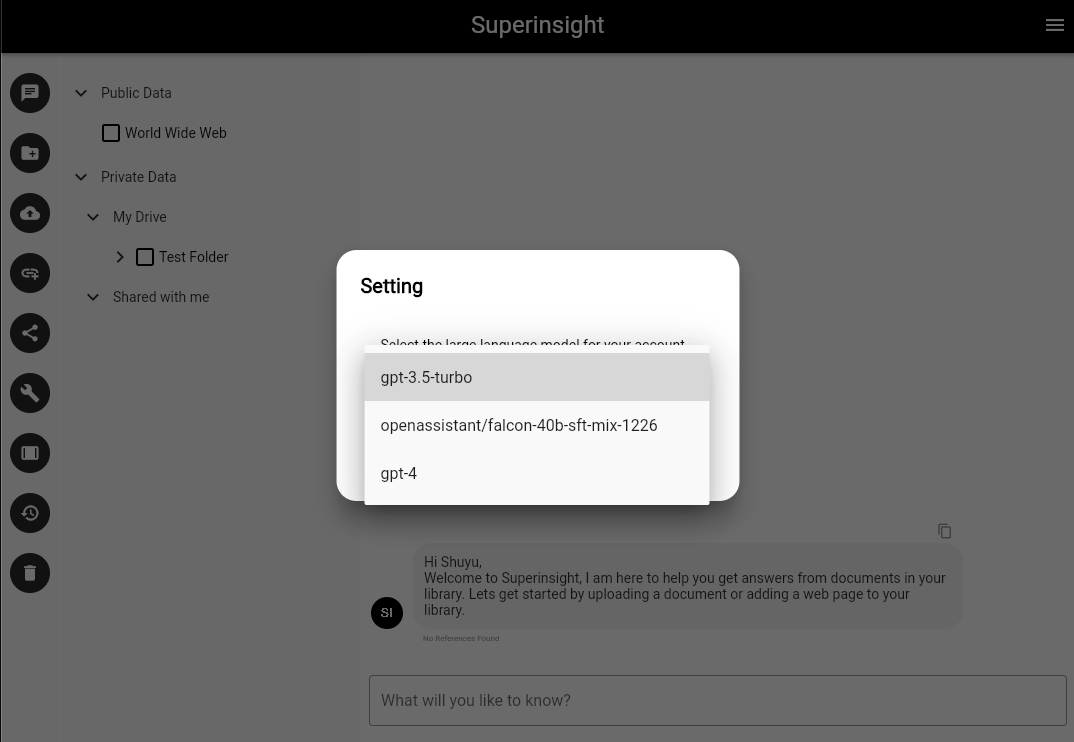
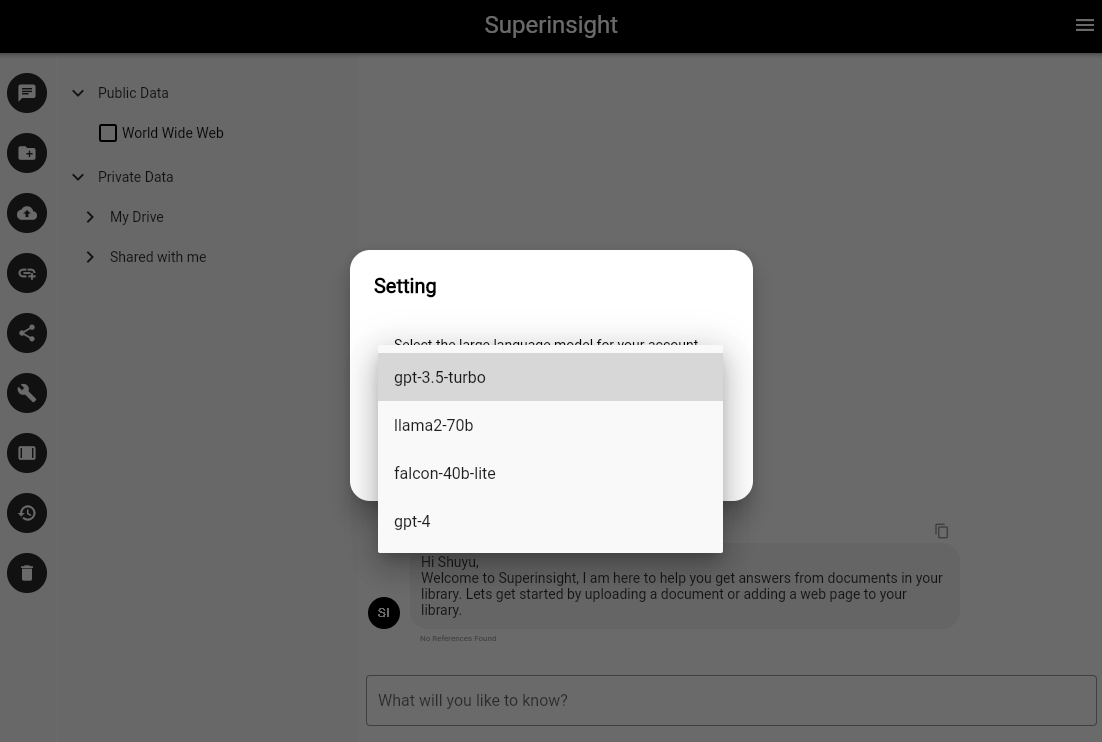
init commit

diff --git a/docs/guide/privacy-policy.md b/docs/guide/privacy-policy.md
@@ -1,0 +1,77 @@
+# Superinsight Privacy Policy
+
+Superinsight is committed to maintaining robust privacy protections for our users.  Our Privacy Policy is designed to help you understand how we collect, use and safeguard the information you provide to us and to assist you in making informed decisions when using our Service.
+
+For purposes of this document, “Site” refers to the Superinsight’s website, which can be accessed at [here](https://www.superinsight.ai/).
+“Service” refers to the Superinsight’s services accessed via the Site, in which users can upload or synchronize their enterprise/personal files or data to our services and get insights and assistance.
+
+The terms “we,” “us,” and “our” refer to the Superinsight.
+“You” refers to you, as a user of our Site or our Service. 
+By accessing our Site or our Service, you accept our Privacy Policy, and you consent to our collection, storage, and use of your Personal Information as described in this Privacy Policy.
+
+### 1.  INFORMATION WE COLLECT
+
+We collect “Non-Personal Information” and “Personal Information.” **Non-Personal Information** includes information that cannot be used to personally identify you, such as anonymous usage data, general demographic information we may collect, referring/exit pages and URLs, platform types, preferences you submit, and preferences that are generated based on the data you submit and number of clicks. **Personal Information** includes your email and phone number, which you submit to us through the registration process at the Site.
+
+#### i.  Information collected via Technology
+
+To activate the Service you do not need to submit any Personal Information other than your email address and phone number. To use the Service thereafter, you do not need to submit further Personal Information. However, in an effort to improve the quality of the Service, we track information provided to us by your browser or by our software application when you view or use the Service, such as the type of browser you use, the device from which you connected to the Service, the time and date of access, and other information that does not personally identify you.
+
+We track this information using cookies, or small text files which include an anonymous unique identifier. Cookies are sent to a user’s browser from our servers and are stored on the user’s computer hard drive. Sending a cookie to a user’s browser enables us to collect Non-Personal information about that user and keep a record of the user’s preferences when utilizing our services, both on an individual and aggregate basis.
+
+Superinsight may use both persistent and session cookies; persistent cookies remain on your computer after you close your session and until you delete them, while session cookies expire when you close your browser.
+
+#### ii.  Information you provide us by registering for an account
+
+In addition to the information provided automatically by your browser when you visit the Site, to become a subscriber to the Service you will need to create a personal profile. You can create a profile by registering with the Service and entering your phone number. By registering, you are authorizing us to collect, store and use your phone number in accordance with this Privacy Policy.
+
+#### iii.  Children’s Privacy
+
+The Site and the Service are not directed to anyone under the age of 13. The Site does not knowingly collect or solicit information from anyone under the age of 13, or allow anyone under the age of 13 to sign up for the Service. In the event that we learn that we have gathered personal information from anyone under the age of 13 without the consent of a parent or guardian, we will delete that information as soon as possible. If you believe we have collected such information, please contact us at [help@superinsight.ai](mailto:help@superinsight.ai)
+
+### 2.  HOW WE USE AND SHARE INFORMATION
+
+**Personal Information**
+
+Except as otherwise stated in this Privacy Policy, we do not sell, trade, rent or otherwise share for marketing purposes your Personal Information with third parties without your consent. We do not share Personal Information with any vendors who are performing services for Superinsight, such as artificial intelligence or large language model companies, or third parties integration services like cloud drives and databases.
+
+In general, the Personal Information you provide to us is used to help us communicate with you. For example, we use Personal Information to provide technical support and inform users about promotional offers.
+
+We may share Personal Information with outside parties if we have a good-faith belief that access, use, preservation or disclosure of the information is reasonably necessary to meet any applicable legal process or enforceable governmental request; to enforce applicable Terms of Service, including investigation of potential violations; address fraud, security or technical concerns; or to protect against harm to the rights, property, or safety of our users or the public as required or permitted by law.
+
+**Non-Personal Information**
+
+In general, we use Non-Personal Information to help us improve the Service and customize the user experience. We also aggregate Non-Personal Information in order to track trends and analyze use patterns on the Site. This Privacy Policy does not limit in any way our use or disclosure of Non-Personal Information and we reserve the right to use and disclose such Non-Personal Information to our partners, advertisers and other third parties at our discretion.
+
+In the event we undergo a business transaction such as a merger, acquisition by another company, or sale of all or a portion of our assets, your Personal Information may be among the assets transferred. You acknowledge and consent that such transfers may occur and are permitted by this Privacy Policy, and that any acquirer of our assets may continue to process your Personal Information as set forth in this Privacy Policy. If our information practices change at any time in the future, we will post the policy changes to the Site so that you may opt out of the new information practices. We suggest that you check the Site periodically if you are concerned about how your information is used.
+
+### 3. HOW WE PROTECT INFORMATION
+
+We implement security measures designed to protect your information from unauthorized access. Your account is protected by our mechanism that send an OTP pin code to your personal phone number to ensure the login session is done by you personally, and we urge you to take steps to keep your personal information safe by not disclosing your phone number and by logging out of your account after each use.
+
+We further protect your information from potential security breaches by implementing certain technological security measures including encryption, firewalls and secure socket layer technology. However, these measures do not guarantee that your information will not be accessed, disclosed, altered or destroyed by breach of such firewalls and secure server software. By using our Service, you acknowledge that you understand and agree to assume these risks.
+
+### 4.  YOUR RIGHTS REGARDING THE USE OF YOUR PERSONAL INFORMATION
+
+You have the right at any time to prevent us from contacting you for marketing purposes.  When we send a promotional communication to a user, the user can indicate that you do not wish to receive marketing communications from us by contacting us at [help@superinsight.ai](mailto:help@superinsight.ai). Please note that notwithstanding the promotional preferences you indicate, we may continue to send you administrative messages including, for example, periodic updates to our Privacy Policy.
+
+### 5. LINKS TO OTHER WEBSITES
+
+We are not responsible for the privacy practices employed by third party websites or the information or content they contain. This Privacy Policy applies solely to information collected by us through the Site and the Service.
+
+As part of the Service, we may provide links to or compatibility with other websites or applications. Through these third party services, we may access your files or data that was originally saved there and use them only as resources for our services by your permission.
+
+To the extent that you access or use the Service through or on another website or application, then the privacy policy of that other website or application will apply to your access or use of that site or application. We encourage our users to read the privacy statements of other websites before proceeding to use them.
+
+### 6.  CHANGES TO OUR PRIVACY POLICY
+
+Superinsight reserves the right to change this policy and our Terms of Service at any time.  We will notify you of significant changes to our Privacy Policy by sending a notice to your account or by placing a prominent notice on our site. Significant changes will go into effect 30 days following such notification. Non-material changes or clarifications will take effect immediately. You should periodically check the Site and this privacy page for updates.
+
+### 7. CONTACT US
+
+If you have any questions regarding this Privacy Policy or the practices of this Site, please contact us by sending an email to [help@superinsight.ai](mailto:help@superinsight.ai).
+
+Last Updated: This Privacy Policy was last updated on August 15th, 2023.
+
+
+© 2023 All rights reserved by Superinsight

diff --git a/docs/guide/setting-manage.md b/docs/guide/setting-manage.md
@@ -11,6 +11,7 @@ Superinsight currently supported Models:
 
 * GPT3.5
 * GPT4
-* Falcon 40B
+* Falcon lite
+* Llama2
 
 ![Upload File To Folder](/assets/images/tutorial/setting-manage-model.png)
